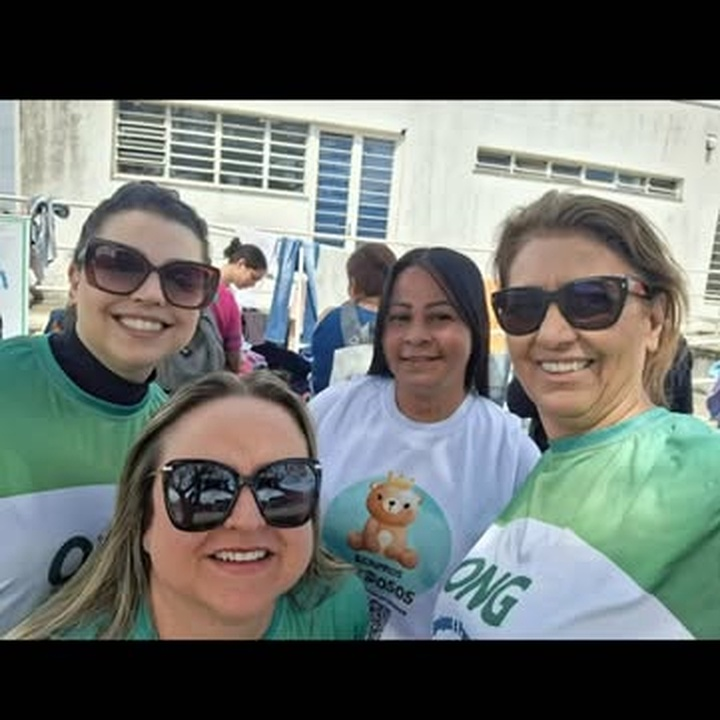
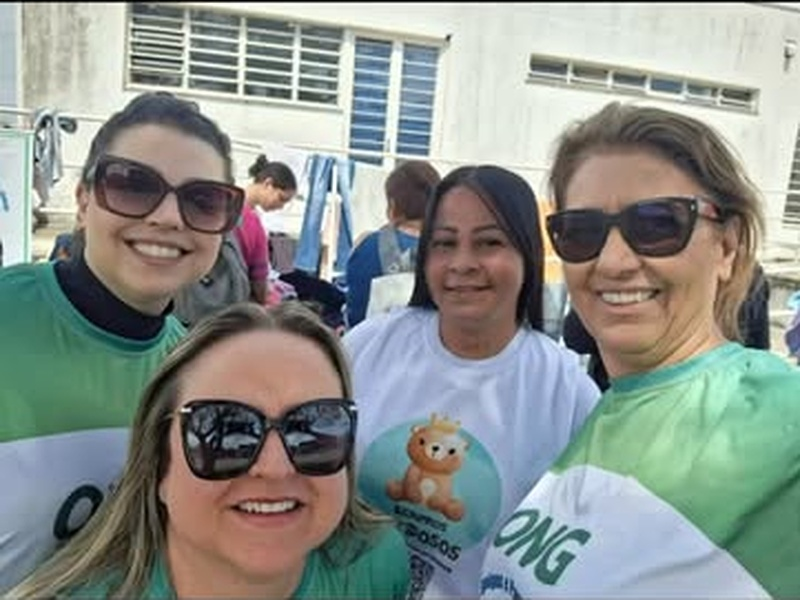
fix: centralizar e enquadrar foto do projeto Bichinhos Caridosos sem barras

diff --git a/scripts/prepare_curated_photos.py b/scripts/prepare_curated_photos.py
@@ -30,10 +30,12 @@ def process_photos():
     # 3. Bichinhos Caridosos: Voluntárias no Hospital Criança Conceição
     # Original: public/img/real/foto_feed_1.jpg (361x640)
     im_bichinhos = Image.open("public/img/real/foto_feed_1.jpg")
-    crop_bichinhos = im_bichinhos.crop((0, 135, 361, 495)) # Sem barra preta superior
-    crop_bichinhos = crop_bichinhos.resize((720, 720), Image.Resampling.LANCZOS)
+    crop_bichinhos = im_bichinhos.crop((0, 184, 361, 455)) # Enquadramento exato sem barras pretas
+    crop_bichinhos = crop_bichinhos.resize((800, 600), Image.Resampling.LANCZOS)
     enhancer = ImageEnhance.Sharpness(crop_bichinhos)
     crop_bichinhos = enhancer.enhance(1.2)
+    crop_bichinhos.save("public/img/fotos/bichinhos-caridosos.jpg", quality=95)
+    crop_bichinhos.save("img/fotos/bichinhos-caridosos.jpg", quality=95)
     crop_bichinhos.save("public/img/fotos_otimizadas/bichinhos-caridosos.jpg", quality=95)
     crop_bichinhos.save("img/fotos_otimizadas/bichinhos-caridosos.jpg", quality=95)
     print("Bichinhos Caridosos saved")
